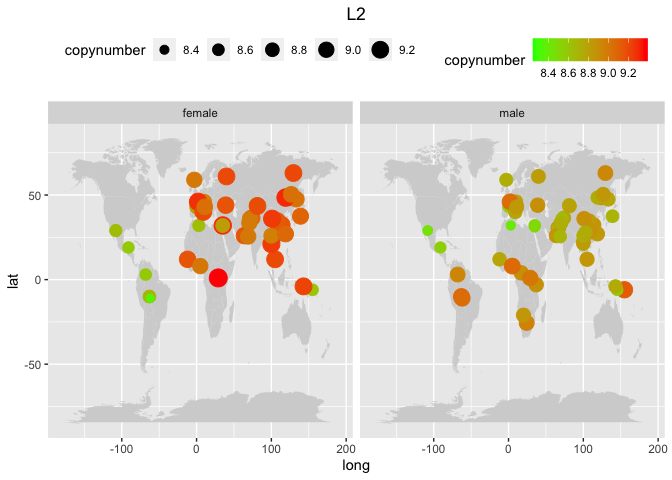
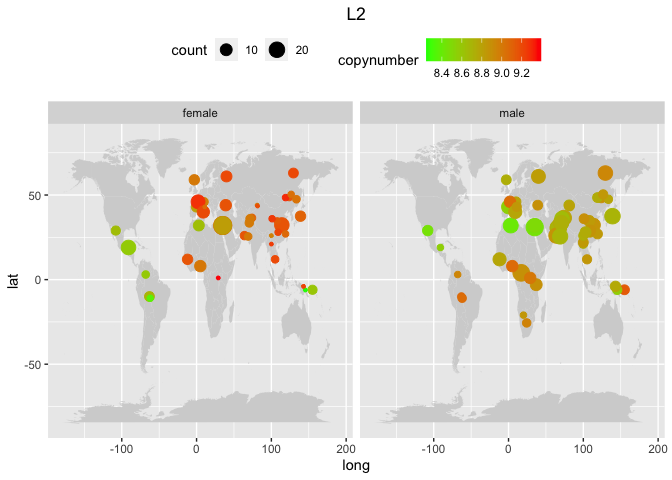
Mod script 4
Modified the maps on script 4, now the dimension of the points shows the number of samples. For real.

diff --git a/ric_documentation/4_HGDP_Geographic-details.md b/ric_documentation/4_HGDP_Geographic-details.md
@@ -79,7 +79,7 @@ by `sex`. I use the function `inner_join` to add `latitude` and
 `longitude` to the initial dataset.
 
 ``` r
-by_pop <- group_by(TE, pop, familyname, sex) %>% summarise(copynumber = mean(copynumber))
+by_pop <- group_by(TE, pop, familyname, sex) %>% summarise(copynumber = mean(copynumber), count=n())
 ```
 
     ## `summarise()` has grouped output by 'pop', 'familyname'. You can override using
@@ -90,19 +90,19 @@ data <- inner_join(x = coord, y = by_pop, by = "pop")
 data
 ```
 
-    ## # A tibble: 94,570 × 6
-    ##    pop    latitude longitude familyname sex    copynumber
-    ##    <chr>     <dbl>     <dbl> <chr>      <chr>       <dbl>
-    ##  1 Adygei       44        39 6kbHsap    female    324.   
-    ##  2 Adygei       44        39 6kbHsap    male      325.   
-    ##  3 Adygei       44        39 ALINE      female      0.148
-    ##  4 Adygei       44        39 ALINE      male        0.117
-    ##  5 Adygei       44        39 ALR        female  33669.   
-    ##  6 Adygei       44        39 ALR        male    30977.   
-    ##  7 Adygei       44        39 ALR_       female  78781.   
-    ##  8 Adygei       44        39 ALR_       male    75401.   
-    ##  9 Adygei       44        39 ALR1       female  74650.   
-    ## 10 Adygei       44        39 ALR1       male    70058.   
+    ## # A tibble: 94,570 × 7
+    ##    pop    latitude longitude familyname sex    copynumber count
+    ##    <chr>     <dbl>     <dbl> <chr>      <chr>       <dbl> <int>
+    ##  1 Adygei       44        39 6kbHsap    female    324.        9
+    ##  2 Adygei       44        39 6kbHsap    male      325.        6
+    ##  3 Adygei       44        39 ALINE      female      0.148     9
+    ##  4 Adygei       44        39 ALINE      male        0.117     6
+    ##  5 Adygei       44        39 ALR        female  33669.        9
+    ##  6 Adygei       44        39 ALR        male    30977.        6
+    ##  7 Adygei       44        39 ALR_       female  78781.        9
+    ##  8 Adygei       44        39 ALR_       male    75401.        6
+    ##  9 Adygei       44        39 ALR1       female  74650.        9
+    ## 10 Adygei       44        39 ALR1       male    70058.        6
     ## # … with 94,560 more rows
 
 We are now ready to analyze the geographic distribution of the most
@@ -120,7 +120,7 @@ ggplot() +
     aes(long, lat, map_id = region),
     color = "white", fill = "lightgray", size = 0) +
   geom_point(
-    data = TE, aes(longitude, latitude, color = copynumber, size = copynumber)
+    data = TE, aes(longitude, latitude, color = copynumber, size = count)
   ) + scale_colour_gradient(low = "green", high = "red") + theme(legend.position="top") + theme(plot.title = element_text(hjust = 0.5)) +
   facet_wrap(~sex) + ggtitle(famname)}
 ```
